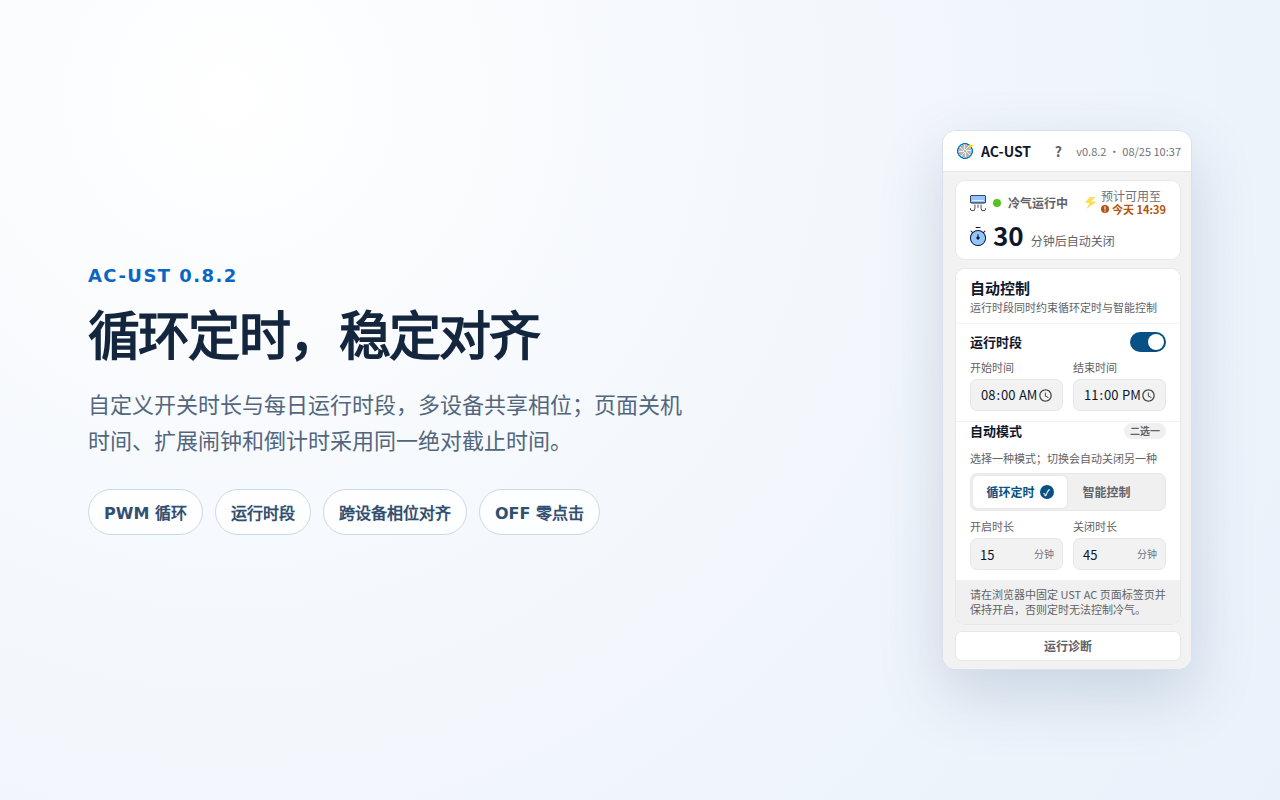
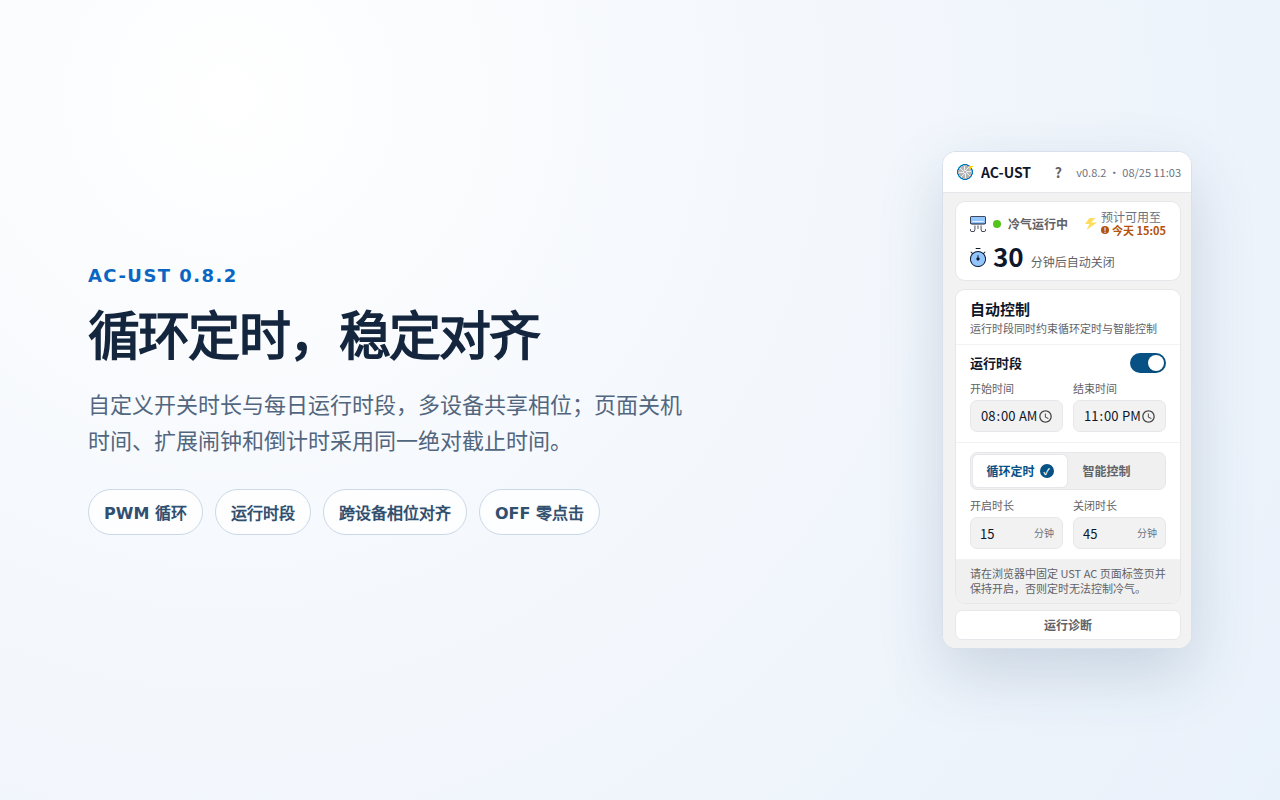
refactor(ui): trim mode copy / 精简模式文案

Changed region(s): [[0.75, 0.1562, 0.9375, 0.8438]]

diff --git a/popup.html b/popup.html
@@ -1269,15 +1269,11 @@
         </div>
       </div>
       </section>
-      <fieldset class="mode-section" aria-describedby="automationModeHint">
-        <legend class="mode-heading" id="automationModeLabel">
-          <span data-i18n="automationModeLabel"></span>
-          <span class="mode-exclusive" data-i18n="automationModeExclusive"></span>
-        </legend>
-        <p class="mode-hint" id="automationModeHint" data-i18n="automationModeHint"></p>
+      <fieldset class="mode-section">
+        <legend class="visually-hidden" id="automationModeLabel" data-i18n="automationModeLabel"></legend>
         <span class="visually-hidden" id="timerToggleState" data-i18n="timerDisabled" aria-live="polite" aria-atomic="true"></span>
         <span class="visually-hidden" id="smartModeToggleState" data-i18n="timerDisabled" aria-live="polite" aria-atomic="true"></span>
-        <div class="mode-segment" role="group" aria-labelledby="automationModeLabel">
+        <div class="mode-segment">
           <button type="button" class="mode-choice" id="timerToggle" aria-pressed="false" aria-describedby="timerToggleState">
             <span id="pwmSettingsTitle" data-i18n="pwmSettings"></span>
             <span class="mode-choice-mark" aria-hidden="true">✓</span>

diff --git a/popup.css b/popup.css
@@ -407,35 +407,6 @@ input {
   border: 0;
 }
 
-.mode-heading {
-  display: flex;
-  align-items: center;
-  width: 100%;
-  padding: 0;
-  color: var(--text);
-  font-size: 13px;
-  font-weight: 600;
-  line-height: 18px;
-}
-
-.mode-exclusive {
-  margin-left: auto;
-  padding: 0 6px;
-  border-radius: 999px;
-  background: var(--surface-secondary);
-  color: var(--text-secondary);
-  font-size: 10px;
-  font-weight: 600;
-  line-height: 16px;
-}
-
-.mode-hint {
-  margin: 2px 0 7px;
-  color: var(--text-secondary);
-  font-size: 11px;
-  line-height: 15px;
-}
-
 .mode-segment {
   display: grid;
   grid-template-columns: repeat(2, minmax(0, 1fr));

diff --git a/CHANGELOG.md b/CHANGELOG.md
@@ -2,7 +2,7 @@
 
 ## 0.8.2
 
-- 重构弹窗自动控制信息架构：运行时段以共同作用域包住循环定时与智能控制，两种自动模式改为等宽分段单选并持续显示当前选择、勾选标记与「二选一」提示；保留再次点击已选模式即可关闭自动控制的原有语义。
+- 重构弹窗自动控制信息架构：运行时段以共同作用域包住循环定时与智能控制，两种自动模式改为等宽分段单选并以持续选中态与勾选标记表达互斥关系，不重复显示模式说明；保留再次点击已选模式即可关闭自动控制的原有语义。
 - 将「运行时段」从循环定时中抽离为循环定时与智能控制共用的独立自动执行门禁：采用同日半开区间 `[start,end)`，时段外保留 `schedule.enabled` 与所选模式，仅暂停 PWM、角标和看门狗运行闹钟，并通过页面 `Power-off after` 安全停机。重新进入后普通循环可立即恢复，智能控制仍等待下一次 `HH:00`/`HH:30` 首分钟；天气预取与页面关机重试不受暂停影响，自动控制已关闭时单独编辑时段也不会误触发停机。
 - 启动、跨设备同步、页面定时器采纳、看门狗、诊断自愈、时钟修复与灵敏度重设统一遵守运行时段门禁；自动 ON 在最终页面消息前、运行闹钟在创建前后再次复检，封堵边界切换期间的异步竞态。退出时段的 runtime 重置到首轮持久化之间会临时封锁旧 storage 回灌；popup 在暂停态保留模式开关、隐藏倒计时、忽略泄漏闹钟的时钟投影，并把运行闹钟修复统一委派给后台，避免诊断绕过最终门禁。暂停或显式重启会取消主世界尚未收敛的自动 ON 递归；安全关机使用独立 revision，恢复后旧验证和旧重试不能覆盖新周期。
 - 修复自动 ON 触发页面 BFCache 导航、消息端口关闭时的恢复竞态：旧业务子页即使仍为 `complete` 也不再被误判为控制页已就绪；同一控制标签必须真正回到精确 home 并完成加载后，才进行最多一次幂等开机重试。
